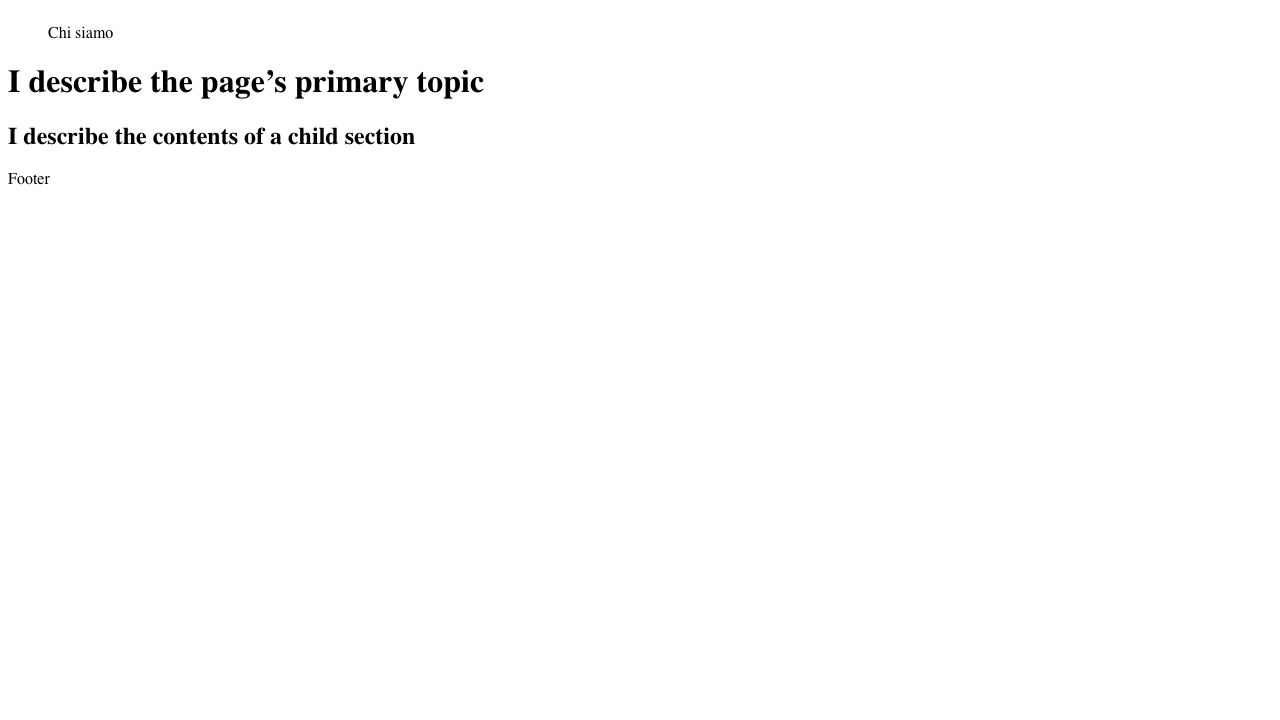
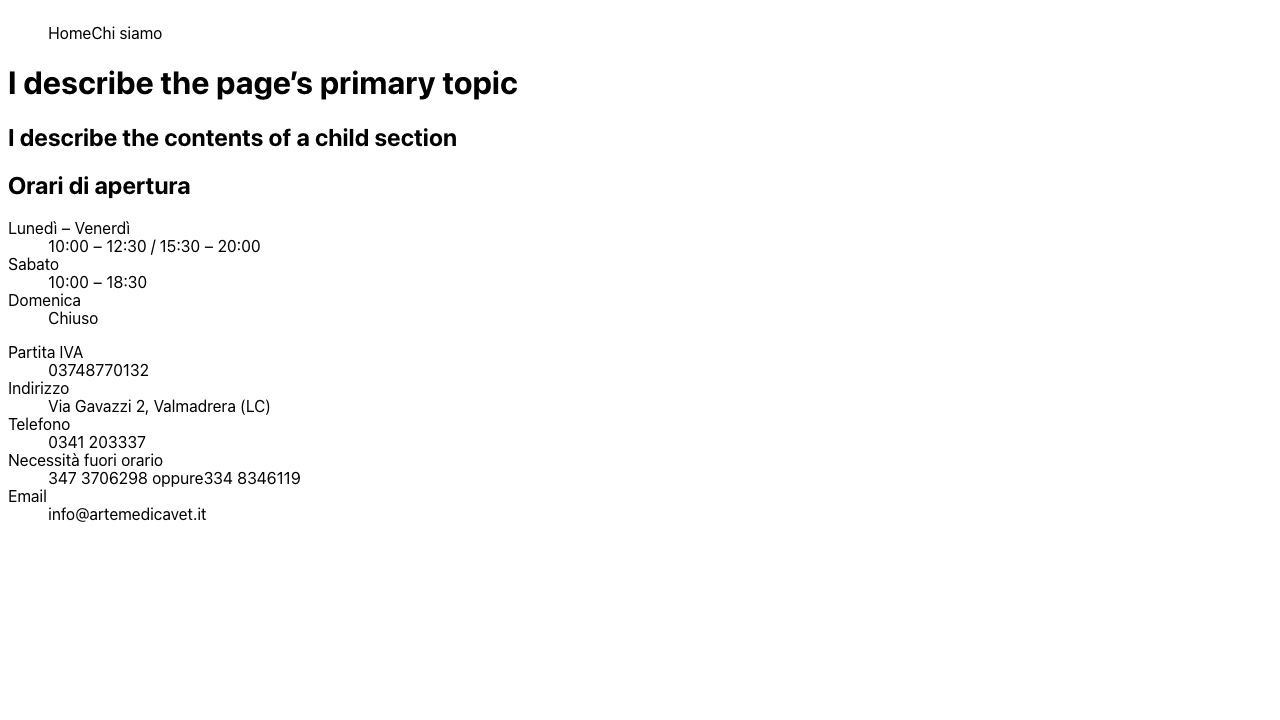
WIPnavigation tests

diff --git a/src/app/navigation.e2e.test.ts b/src/app/navigation.e2e.test.ts
@@ -1,0 +1,25 @@
+import { test, expect } from '@playwright/test'
+
+test.describe('Navigation, using chi-siamo page', async () => {
+  test.describe('the aria labels are set on the server', async () => {
+    test.use({ javaScriptEnabled: false })
+
+    test('aria-current is set to the current page', async ({ page }) => {
+      await page.goto('/chi-siamo')
+
+      await test.step('aria-current is correctly set', async () => {
+        const element = page.locator('[aria-current="page"]')
+        await expect(element).toHaveAccessibleName('Chi siamo')
+      })
+      await test.step('navigationMenuToggle is not visible', async () => {
+        const element = page.getByLabel('Menú di navigazione')
+        await expect(element).not.toBeVisible()
+        await expect(element).toHaveAttribute('aria-expanded', 'false')
+      })
+    })
+  })
+
+  test.describe('users interactions contains accessible data', async () => {
+    // TODO: mobile interactions
+  })
+})

diff --git a/src/app/chi-siamo.e2e.test.ts b/src/app/chi-siamo.e2e.test.ts
@@ -1,16 +1,17 @@
 import AxeBuilder from '@axe-core/playwright'
 import { test, expect, type Page } from '@playwright/test'
 
-test.describe('/', async () => {
+test.describe('/chi-siamo', async () => {
   test.describe('is rendered on the server', async () => {
     test.use({ javaScriptEnabled: false })
 
     test('is rendered on the server', async ({ page }) => {
-      await page.goto('/')
+      await page.goto('/chi-siamo')
 
-      expect(page.getByText('I describe the page’s primary topic')).toBeVisible()
+      await expect(page.getByRole('heading', { name: 'Chi siamo' })).toBeVisible()
+      // TODO: check aria current page is set
 
-      await page.screenshot({ fullPage: true, path: './src/app/home.rsc.e2e.test.png' })
+      await page.screenshot({ fullPage: true, path: './src/app/chi-siamo.rsc.e2e.test.png' })
     })
   })
 

diff --git a/src/app/chi-siamo/page.tsx b/src/app/chi-siamo/page.tsx
@@ -13,7 +13,7 @@ export default function Home() {
         <PrimaryNav currentPage={'/chi-siamo'} />
       </Header>
       <main>
-        <h1>I describe the page’s primary topic</h1>
+        <h1>Chi siamo</h1>
         <section>
           <h2>I describe the contents of a child section</h2>
         </section>
